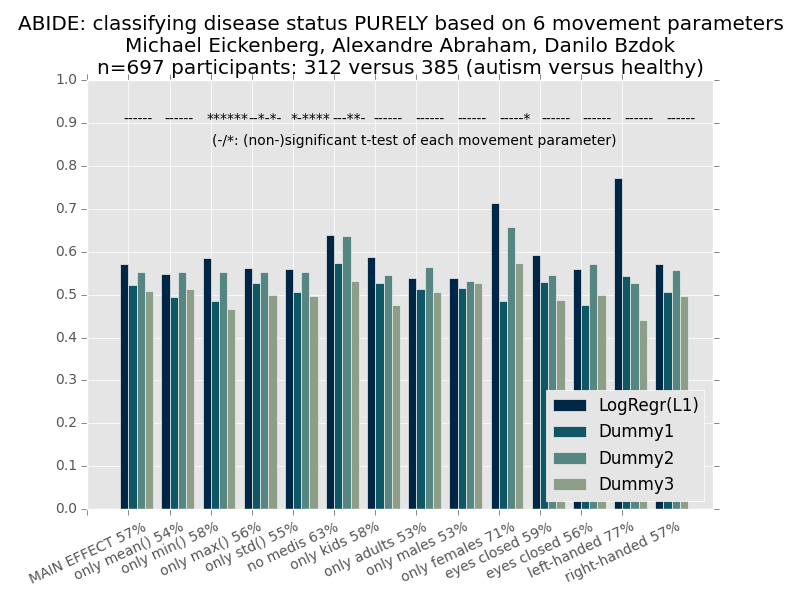
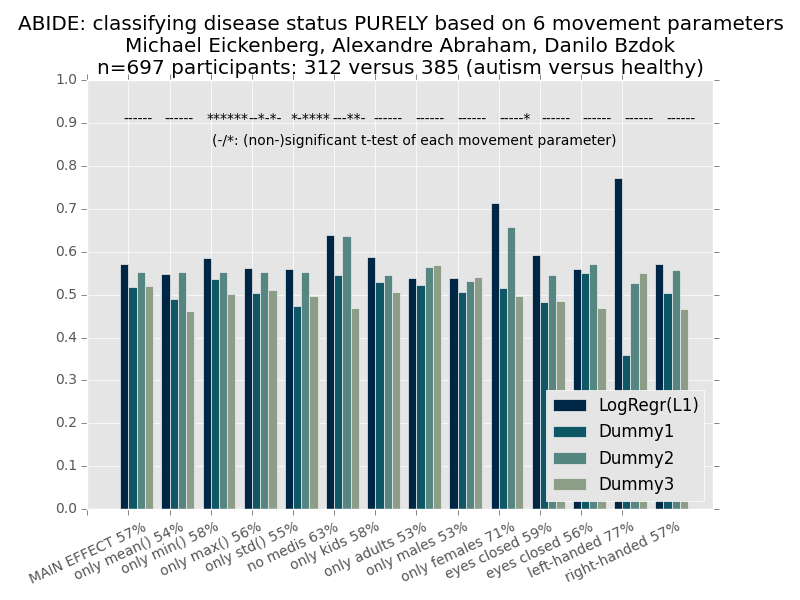
Brandnew: Fourier

diff --git a/nilearn_private/plot_movements_mad.py b/nilearn_private/plot_movements_mad.py
@@ -20,6 +20,7 @@ plt.close('all')
 
 def eval_against_dumm(FS, aut_target, myclf, folder):
 	real_acc = []
+	print FS.shape
 	dummy1_acc,dummy2_acc,dummy3_acc = [], [], []
 	for train_index, test_index in folder:
 		clf = copy.deepcopy(myclf)
@@ -54,16 +55,24 @@ bunch = fetch_abide_movements()
 aut_target = bunch.pheno["DX_GROUP"]
 nparticipants = len(aut_target)
 
-FS = np.zeros((nparticipants,24))
+N_FOURIER_COEFF = 30
+
+FS = np.zeros((nparticipants, 24 + N_FOURIER_COEFF * 6))
 for i in xrange(6):
-	values = [np.mean(mov[:,i]) for mov in bunch.movement]
-	FS[:,i] = values
+	values = [np.mean(mov[:, i]) for mov in bunch.movement]
+	FS[:, i] = values
 	mins = [np.min(mov[:,i]) for mov in bunch.movement]
-	FS[:,i+6] = mins
+	FS[:, i + 6] = mins
 	maxs = [np.max(mov[:,i]) for mov in bunch.movement]
-	FS[:,i+12] = maxs
+	FS[:, i + 12] = maxs
 	stds = [np.std(mov[:,i]) for mov in bunch.movement]
-	FS[:,i+18] = stds
+	FS[:, i + 18] = stds
+	if N_FOURIER_COEFF != 0:
+		subj_coeffs = [np.fft.fft(mov[:, i]) for mov in bunch.movement]
+		subj_coeffs = np.array(subj_coeffs)
+		subj_coeffs_abs = np.abs(subj_coeffs)  # reduce complex to real numbers
+		for n in range(N_FOURIER_COEFF):
+			FS[:, i + 24 + n*6] = subj_coeffs_abs[:][0][n]
 
 inds_kids = bunch.pheno['AGE_AT_SCAN']<18.
 inds_adults = np.logical_not(inds_kids)
@@ -97,7 +106,9 @@ print "autist:non-autist = %i/%i" % (naut,nparticipants-naut)
 
 
 n_folds = 10
-myclf = Pipeline([('SS', StandardScaler()), ('LR', LogisticRegression(penalty='l1'))])
+#myclf = Pipeline([('SS', StandardScaler()), ('LR-l1', LogisticRegression(penalty='l1'))])
+myclf = Pipeline([('SS', StandardScaler()), ('LR-l2', LogisticRegression(penalty='l2'))])
+#myclf = Pipeline([('SS', StandardScaler()), ('SVC', SVC())])
 
 bar_width = .25
 n_clf = 4
@@ -202,15 +213,15 @@ for i_ana in range(14):
 		a, b, c, d = eval_against_dumm(cur_FS, cur_target, myclf, folder)
 		score_list = [a, b, c, d]
 		xlabels.append('left-handed %i%%' % (a*100))
-	elif i_ana == 13:
+	else:
 		cur_FS = FS[inds_right, :]
 		cur_target = aut_target.copy()[inds_right]
 		folder = StratifiedKFold(cur_target, n_folds=n_folds)
 		a, b, c, d = eval_against_dumm(cur_FS, cur_target, myclf, folder)
 		score_list = [a, b, c, d]
 		xlabels.append('right-handed %i%%' % (a*100))
-	else:
-		pass
+
+	#print cur_FS.shape
 
 	from scipy.stats import ttest_ind
 	sign_string = ''
@@ -237,9 +248,8 @@ for i_ana in range(14):
 	print "DUMMY3 ACCURACY MEAN: %.2f" % d
 
 	# bar plot
-	mycolors = 'ykmc'
 	mycolors = ['#002645', '#0f5765', '#568681', '#8c9d88']
-	for ii, (key, color) in enumerate(zip(['LogRegr(L1)', 'Dummy1', 'Dummy2', 'Dummy3'], mycolors)):
+	for ii, (key, color) in enumerate(zip([myclf.steps[-1][0], 'Dummy1', 'Dummy2', 'Dummy3'], mycolors)):
 		handle = plt.bar(tick_position, score_list[ii], label=key, width=bar_width, color=color)
 		tick_position += bar_width
 	tick_position += bar_width
@@ -268,7 +278,8 @@ plt.tight_layout()
 plt.show()
 #mng = plt.get_current_fig_manager()
 #mng.window.showMaximized()
-plt.savefig('autism_mov.png')
+plt.savefig('autism_mov_%s_%ifourcoeff.png' % (myclf.steps[-1][0],
+	N_FOURIER_COEFF))
 
 
 
